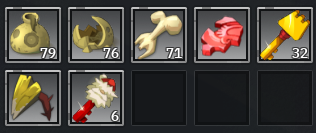
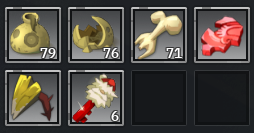
docs: precise bordure rarete commune et absence de police

diff --git a/docs/design-system.md b/docs/design-system.md
@@ -72,7 +72,7 @@ bord sombre (bas-droit) sur le cadre carré de l'emplacement d'objet (~64×64 px
 
 | Rareté | Bordure claire | Bordure sombre | Repère |
 | --- | --- | --- | --- |
-| Commun | gris neutre, pas de teinte dominante — **à confirmer** (§8) | `#4A4D52` (estimation) | `common-items.png` |
+| Commun | `#C4C5C5` (arête haute, biseau lumineux) | `#67696B` (côtés/bas) | `common-items.png` — **confirmé** : cadre gris neutre par défaut, sans aucune teinte colorée (identique à un emplacement vide) |
 | Rare | `#28C080` | `#0F6E3E` | `rare-items.png` |
 | Mythique | `#C97E1E` | `#3B230D` | `mythical-items.png` |
 | Légendaire | `#C4CC17` | `#333B0E` | `legendary-items.png` |
@@ -80,15 +80,18 @@ bord sombre (bas-droit) sur le cadre carré de l'emplacement d'objet (~64×64 px
 | Relique | `#A878E8` | `#2C1F42` | `relic-items.png` |
 | Souvenir | `#2898C0` | `#0C2838` | `memory-items.png` |
 
-> « Ancien objet » existe comme catégorie de filtre mais aucune capture d'emplacement n'a été
-> fournie — bordure non mesurée.
+> « Ancien objet » existe comme catégorie de filtre mais n'a **aucun rendu visuel propre** :
+> ce n'est pas une rareté affichée sur un emplacement d'objet, donc pas de bordure à mesurer
+> (confirmé — il n'y a rien à capturer, pas un oubli de capture).
 
 ---
 
 ## 3. Typographie
 
-Deux familles de police coexistent (aucun fichier de police fourni — description visuelle
-seulement, voir §8) :
+Deux familles de police coexistent visuellement dans l'UI. **Aucun fichier de police n'est
+disponible côté client** (confirmé par l'utilisateur) — ce qui suit est une description
+visuelle destinée à guider le choix d'une police de substitution, pas une identification de la
+police source (voir §8) :
 
 | Rôle | Style observé | Poids | Où |
 | --- | --- | --- | --- |
@@ -243,12 +246,12 @@ octogonal (~8–10 px).
    patch de texture depuis `docs/design-reference/button-primary.png` (zone de fond hors texte)
    et l'appliquer en `egui::TextureId` tuilée sur les formes — sinon, s'en passer pour l'instant
    (le degré d'immersion apporté par la seule palette + chanfrein est déjà élevé).
-4. **Police** : aucun fichier de police fourni. Tant qu'une vraie police n'est pas récupérée
-   (ex. extraite du client Wakfu, ou police libre visuellement proche type *IM Fell English* /
-   *Cinzel* pour le display + une sans-serif système propre pour le corps), utiliser la police
-   par défaut d'egui pour le corps de texte et une police serif embarquée pour les titres/
-   boutons dès qu'elle sera disponible (`assets/fonts/`, dossier déjà prévu dans l'arborescence
-   cible).
+4. **Police** : pas de police source récupérable (confirmé, §8) — la piste « extraire la police
+   du client Wakfu » est abandonnée. Choisir une police libre de substitution visuellement
+   proche : un serif à empattements marqués type *IM Fell English*, *Cinzel* ou *Pirata One*
+   pour le display (titres/boutons), une sans-serif système propre pour le corps. Les embarquer
+   dans `assets/fonts/` (dossier déjà prévu dans l'arborescence cible) plutôt que d'attendre un
+   futur fichier officiel.
 5. **Un seul token de fond** (`#181820` / `#1D2024`) peut servir de `panel_fill` global — c'est
    la couleur la plus stable et la plus répétée dans tout le corpus analysé.
 6. **Ne pas confondre** l'or vif (CTA) et le kaki de sélection : dans l'UI actuelle d'overlay-ui
@@ -264,7 +267,9 @@ Captures d'écran fournies par l'utilisateur, analysées le 2026-09-05 :
 - `docs/design-reference/*.png` (31 fichiers, copiés depuis `C:\Users\Oumbra\Pictures\design-system\`)
   — boutons, inputs, checkbox, select, tabs, collapse, scrollbar, emplacements d'objets par
   rareté. **Conservés dans le dépôt** pour que les futures sessions (y compris cloud, sans accès
-  au dossier `Pictures` local) puissent les reconsulter.
+  au dossier `Pictures` local) puissent les reconsulter. `common-items.png` a été recadré par
+  l'utilisateur le 2026-09-05 (254×133, au lieu de 316×133 initialement) pour isoler la bordure
+  « Commun » (cf. §2.4) — c'est cette version recadrée qui est conservée dans le dépôt.
 - `C:\Users\Oumbra\Pictures\design-system-1.png`, `design-system-2.png`, `design-system-3.png`
   — captures pleine fenêtre (panneau Personnage/Build/Inventaire, Hôtel de vente + filtres,
   emplacements d'objets épiques). **Non copiées** dans le dépôt (poids : ~2 Mo chacune, valeur
@@ -277,21 +282,18 @@ Captures d'écran fournies par l'utilisateur, analysées le 2026-09-05 :
 
 ## 8. Incertitudes / à vérifier
 
-- **Police exacte non identifiée** : aucun fichier de police n'a été fourni malgré l'intention
-  annoncée par l'utilisateur (« je vais même te fournir des tout types ») — à refaire quand les
-  fichiers de police seront disponibles.
-- **Bordure « Commun »** : la détection automatique par saturation n'a pas isolé de teinte
-  propre à cette rareté (les icônes d'objets communs captées sont elles-mêmes dorées/beiges, ce
-  qui a pollué la détection) — valeur `#4A4D52` à confirmer sur une capture dédiée où
-  l'emplacement est vide ou l'objet moins saturé.
-- **Couleurs de bordure de rareté** : mesurées par détection de pixels saturés sur toute
-  l'image (bordure **et** contenu de l'icône peuvent tous deux contribuer) — fiables comme
-  « famille de teinte » (vert/bronze/olive/magenta/violet/cyan) mais la valeur hex exacte du
-  liseré seul mériterait une capture avec emplacement vide.
+- **Pas de police dédiée disponible.** Confirmé par l'utilisateur (2026-09-05) : malgré
+  l'intention initiale d'en fournir, aucun fichier de police n'existe côté client. La
+  description de §3 reste donc **qualitative uniquement** (styles serif/sans-serif observés) —
+  pour l'implémentation, voir §6 point 4 (police libre de substitution ou police système en
+  attendant).
+- **Couleurs de bordure de rareté (rare/mythique/légendaire/épique/relique/souvenir)** :
+  mesurées par détection de pixels saturés sur toute l'image (bordure **et** contenu de l'icône
+  peuvent tous deux contribuer) — fiables comme « famille de teinte » mais la valeur hex exacte
+  du liseré seul (isolé comme cela a été fait pour Commun, cf. §2.4) mériterait une capture
+  avec emplacement vide de chaque rareté si une fidélité pixel-perfect est requise plus tard.
 - **Tailles de police en px** : déduites de la hauteur des composants, pas mesurées sur un
   rendu de glyphe isolé — ordres de grandeur fiables, valeurs exactes à ajuster à l'œil une
   fois un premier composant réel affiché dans l'overlay.
 - **Couleur exacte du texte d'onglet inactif** : estimation visuelle (`#C9A227` env.), non
   confirmée par échantillonnage pixel dédié.
-- **Rareté « Ancien objet »** : présente dans le menu de filtre mais aucune capture
-  d'emplacement associée — bordure non documentée.
